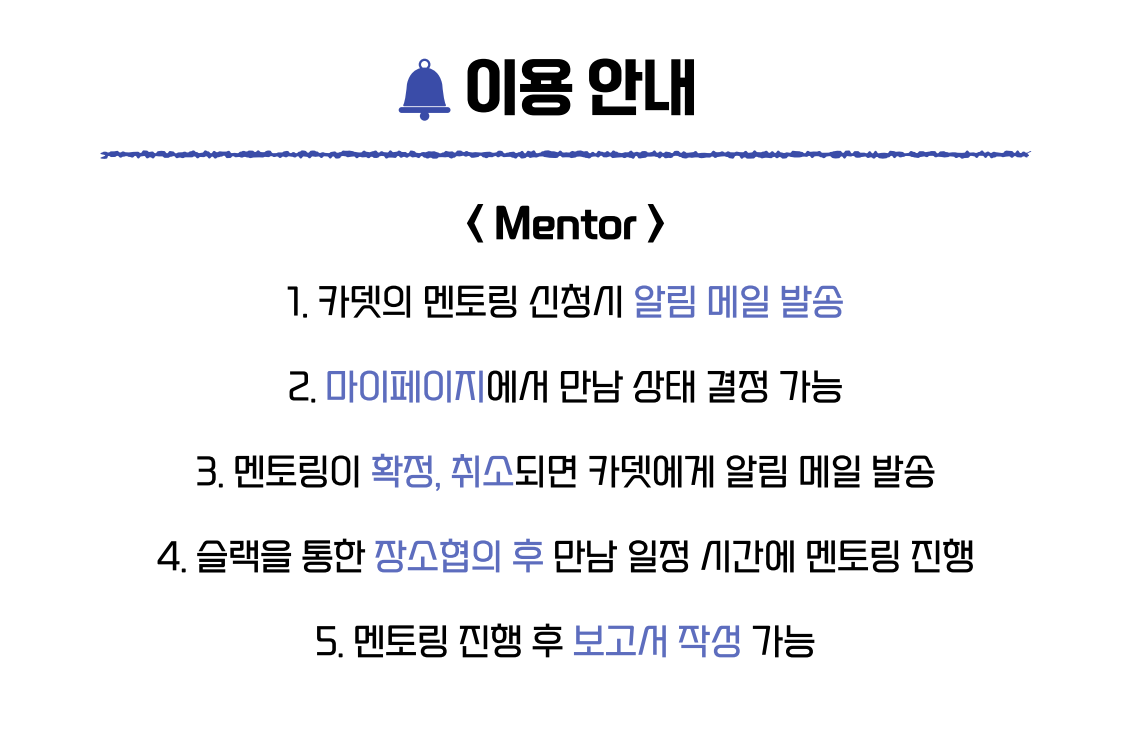
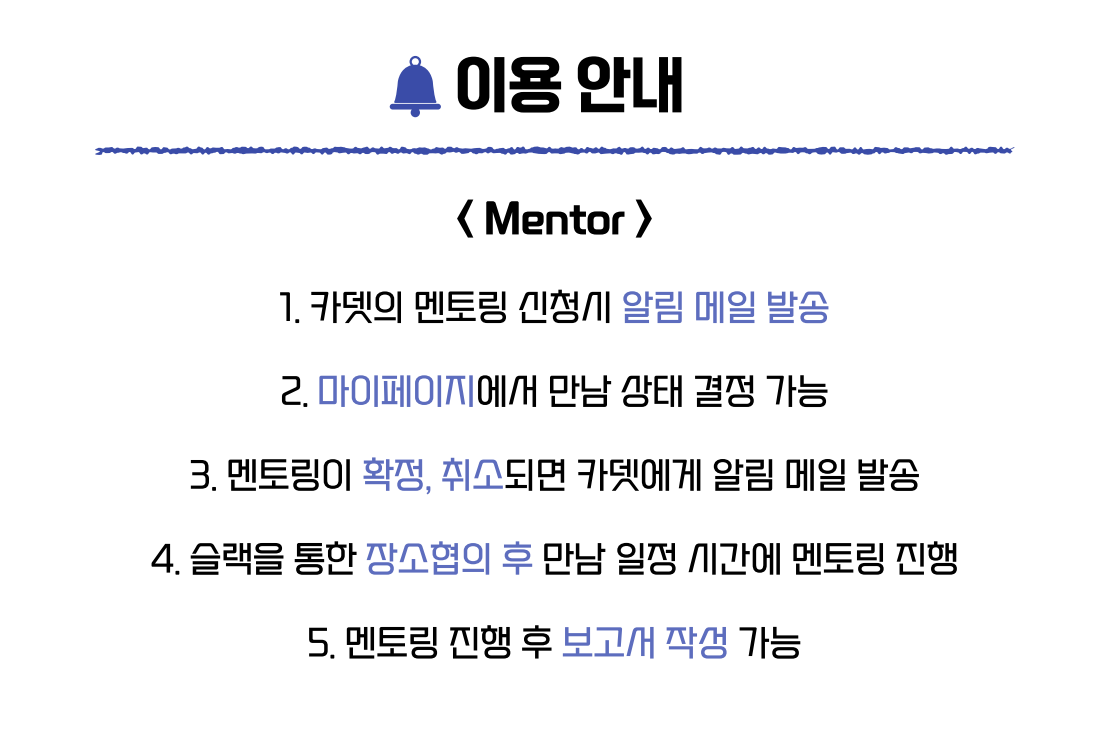
Fix: mobile slide size

diff --git a/src/containers/main-page/mainPageStyled.tsx b/src/containers/main-page/mainPageStyled.tsx
@@ -42,7 +42,7 @@ export const MainContainer2 = styled.div`
   height: calc(100% - 220px);
   width: 100%;
   display: grid;
-  grid-template-rows: 500px 150px 100px 180px;
+  grid-template-rows: 500px 95px 100px 180px;
   grid-template-columns: 400px;
   grid-template-areas:
     'img'
@@ -82,7 +82,7 @@ export const MainImageStyle2 = styled.div`
   box-sizing: border-box;
   background-color: transparent;
   border-radius: 10%;
-  height: 36rem;
+  height: 32rem;
   width: 41rem;
   padding-top: 10rem;
   align-items: center;
@@ -175,7 +175,7 @@ export const TitleStyle2 = styled.div`
   border-bottom: 1px solid black;
   padding-bottom: 3rem;
   font-size: 3rem;
-  margin-top: 9.5rem;
+  margin-top: 4.5rem;
   bottom: 0;
   grid-area: title;
 `;

diff --git a/src/containers/main-page/main-page.tsx b/src/containers/main-page/main-page.tsx
@@ -161,7 +161,7 @@ const MainPage = () => {
           <MainContainer2>
             <MainImageStyle2>
               <MoImageGrid1>
-                <ImageSlider w={40} h={36}></ImageSlider>
+                <ImageSlider w={40} h={32}></ImageSlider>
               </MoImageGrid1>
             </MainImageStyle2>
             <TitleStyle2>
